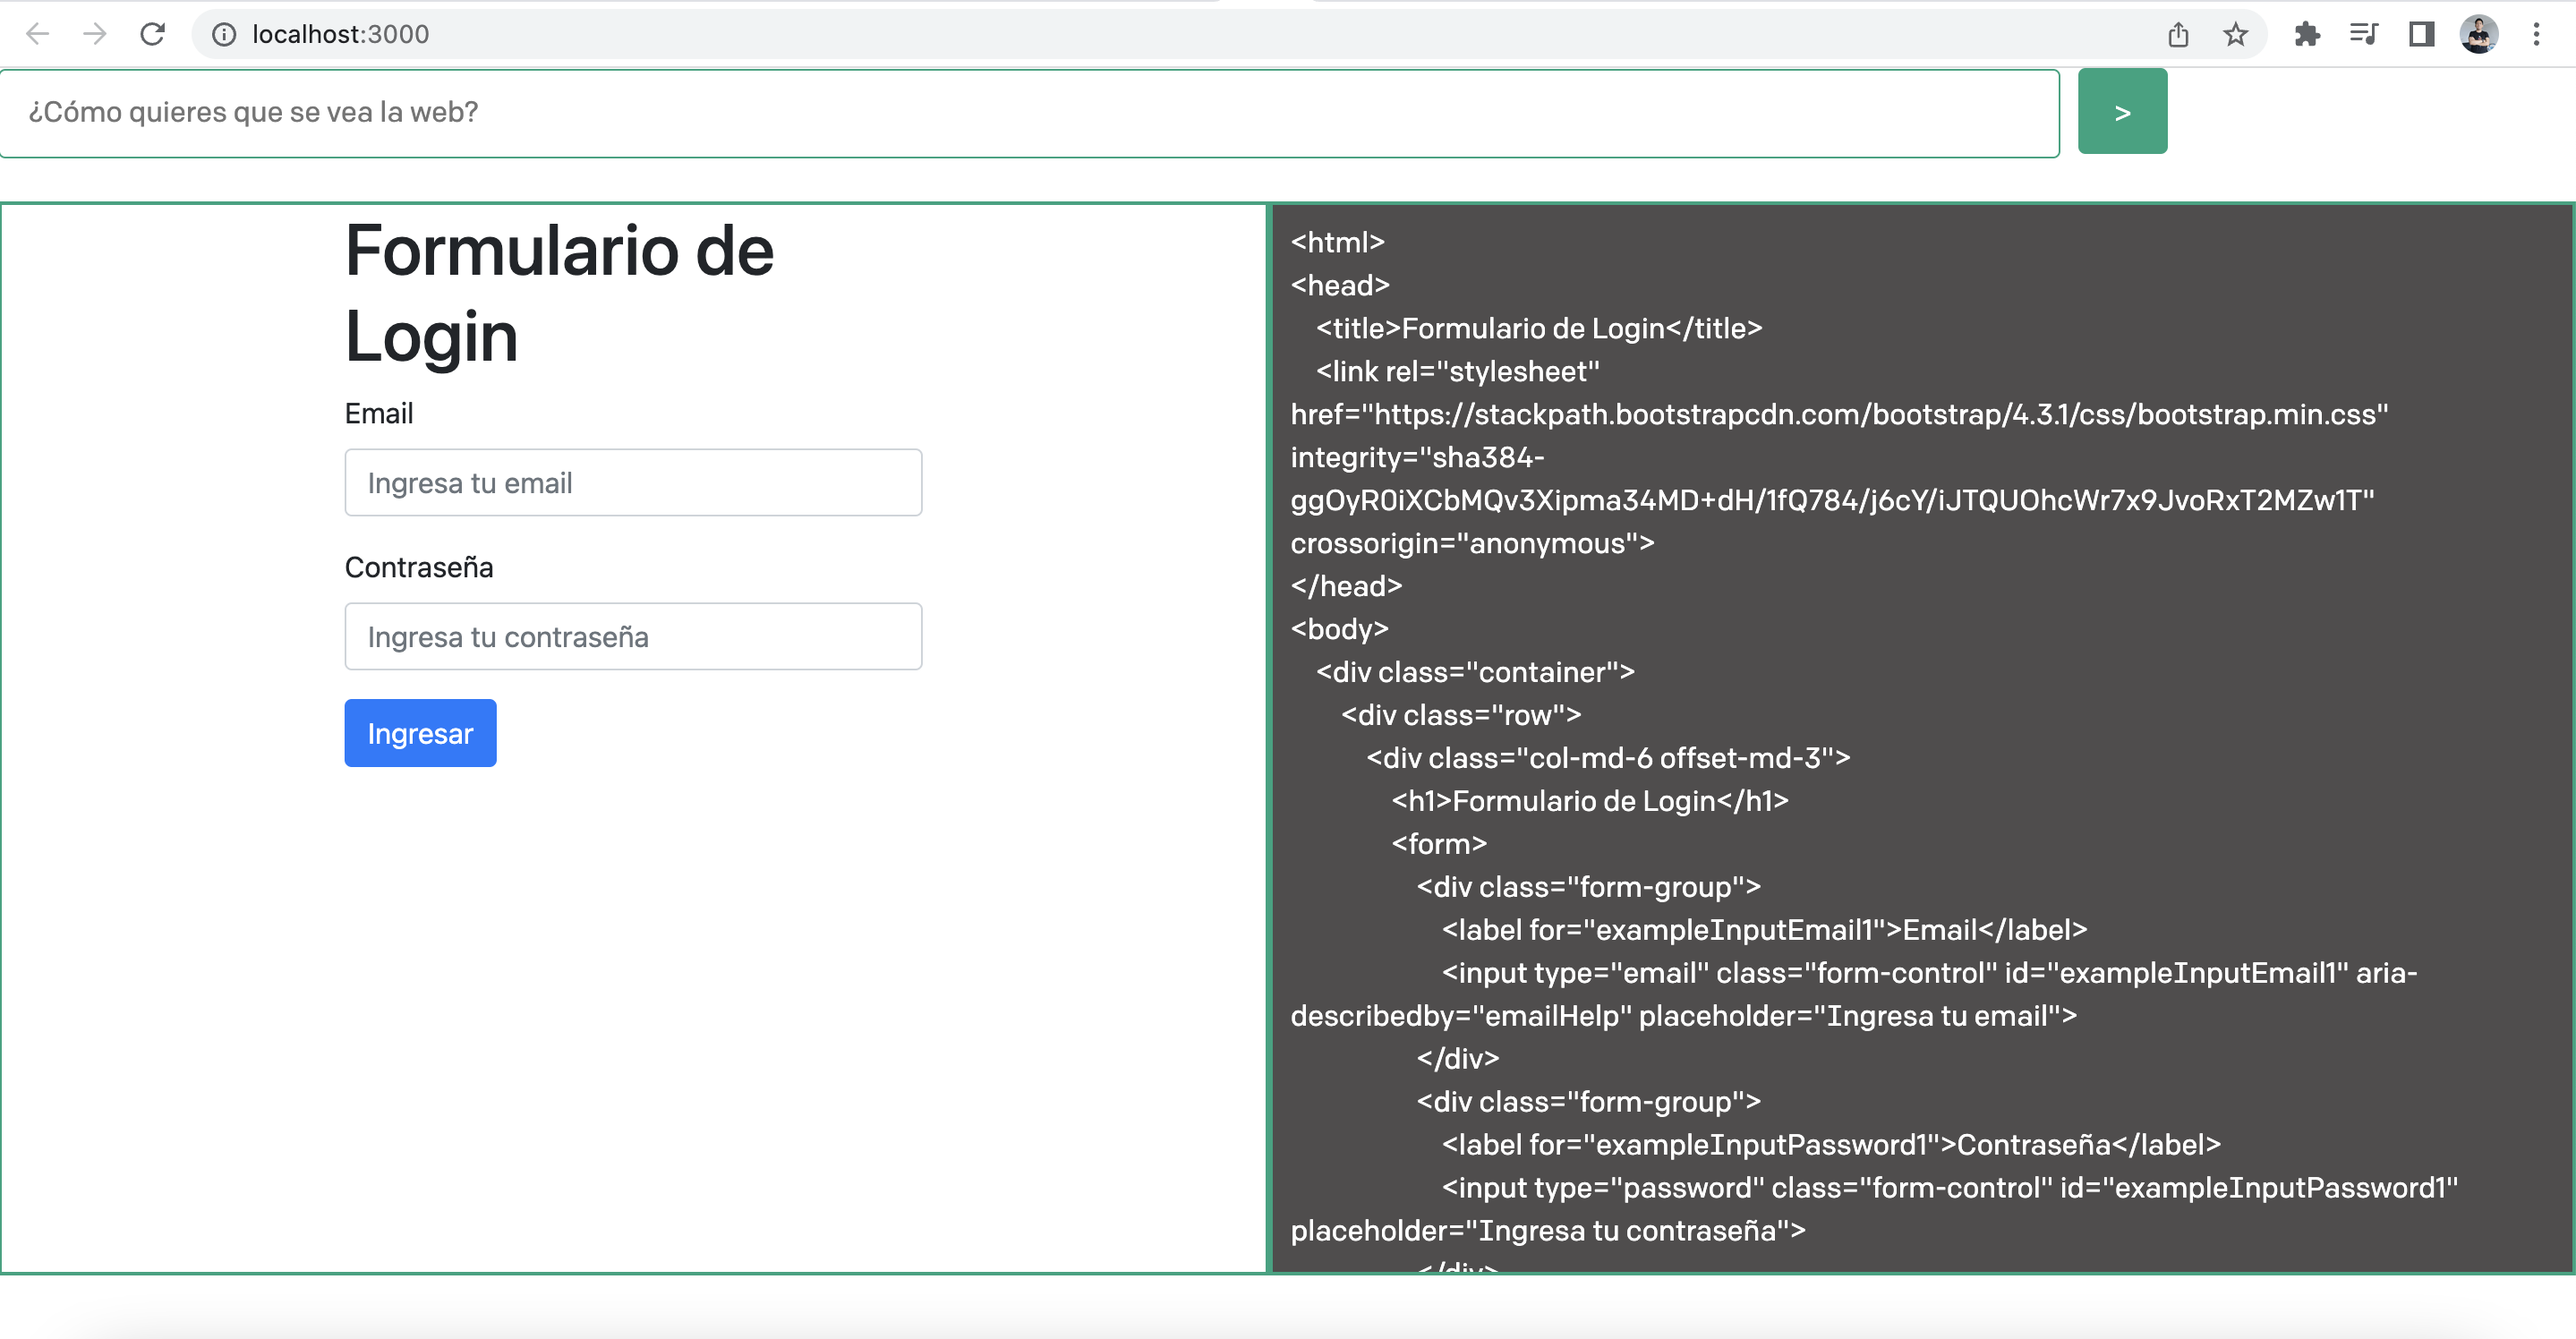
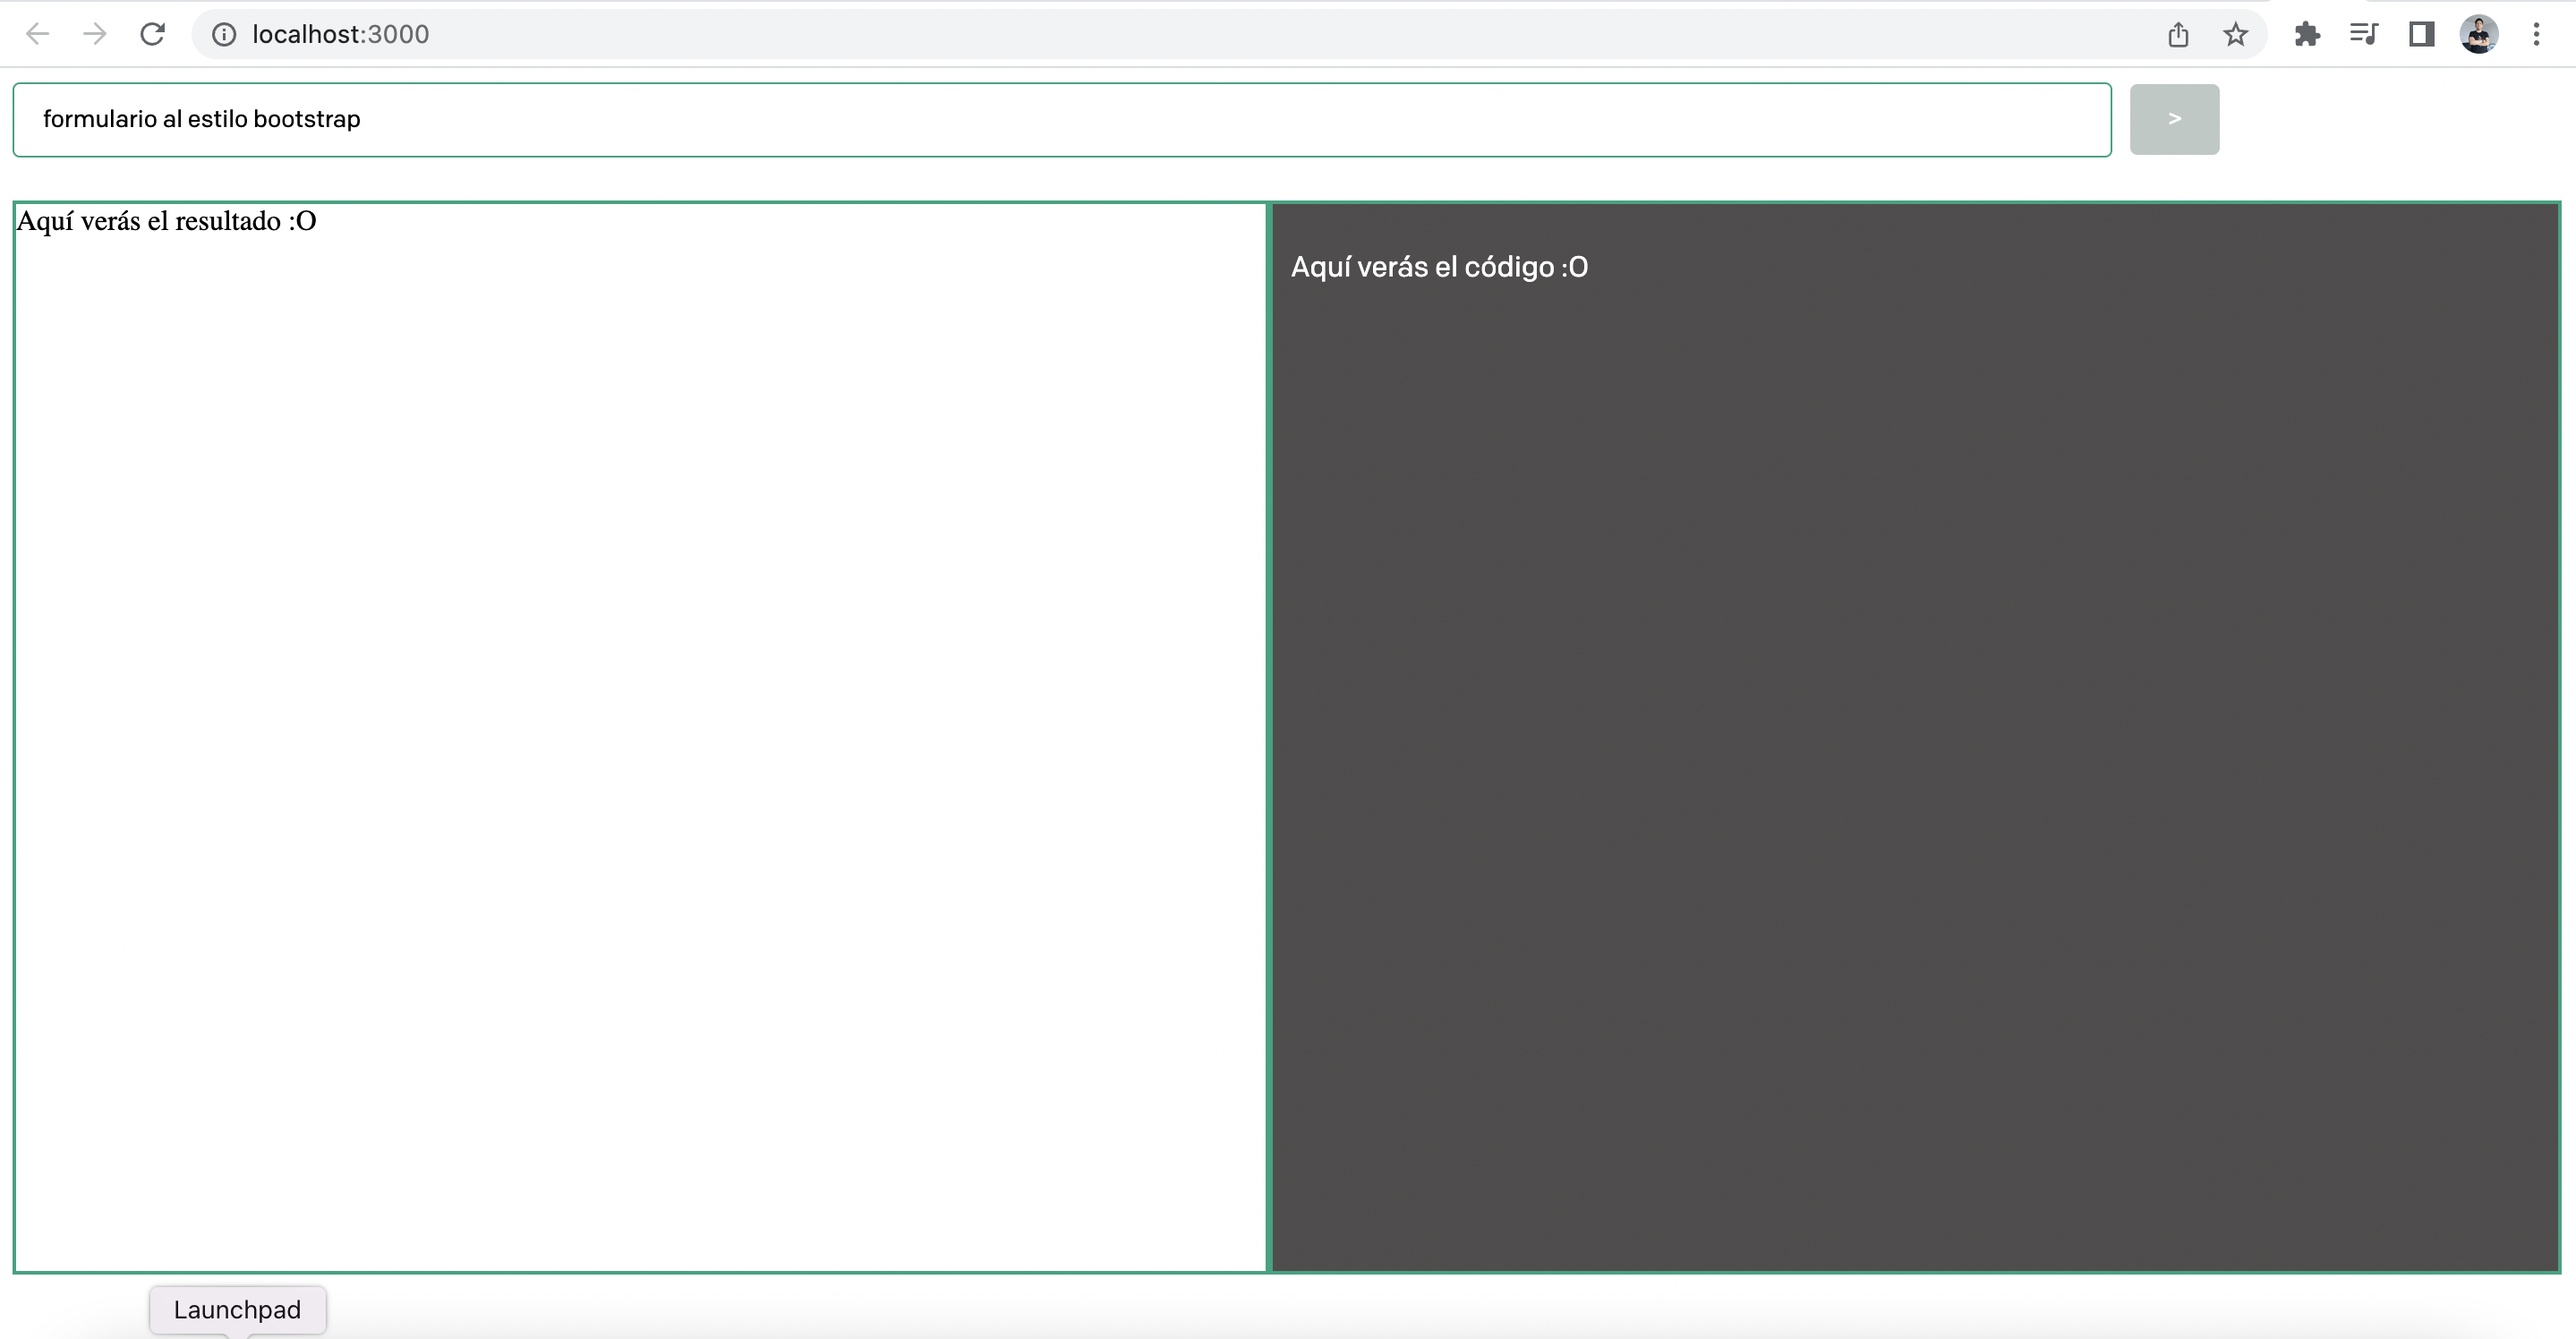
Update Readme

diff --git a/README.md b/README.md
@@ -4,7 +4,9 @@ This is a tool that uses OpenAI models to create html and it is able to be rende
 
 ![Writing my wish](./public/img1.png)
 
-![Writing my wish](./public/img2.png)
+![Wating](./public/img2.png)
+
+![Your web :)](./public/img3.png)
 
 
 ## Setup
@@ -31,7 +33,15 @@ This is a tool that uses OpenAI models to create html and it is able to be rende
    ```powershell
    $ copy .env.example .env
    ```
-6. Add your [API key](https://platform.openai.com/account/api-keys) to the newly created `.env` file
+6. Add your variables to the newly created `.env` file
+   
+   OPENAI_API_KEY= Your openai [api key](https://platform.openai.com/account/api-keys)
+
+   OPENAI_MODEL= Recommended model is text-davinci-003. Check more [models](https://platform.openai.com/docs/models/gpt-3-5
+   )
+
+   OPENAI_MODEL_TEMPERATURE= Set the temperature. Recommended is 0. [Check more](https://platform.openai.com/docs/models/gpt-3-5)
+
 
 7. Run the app
 
